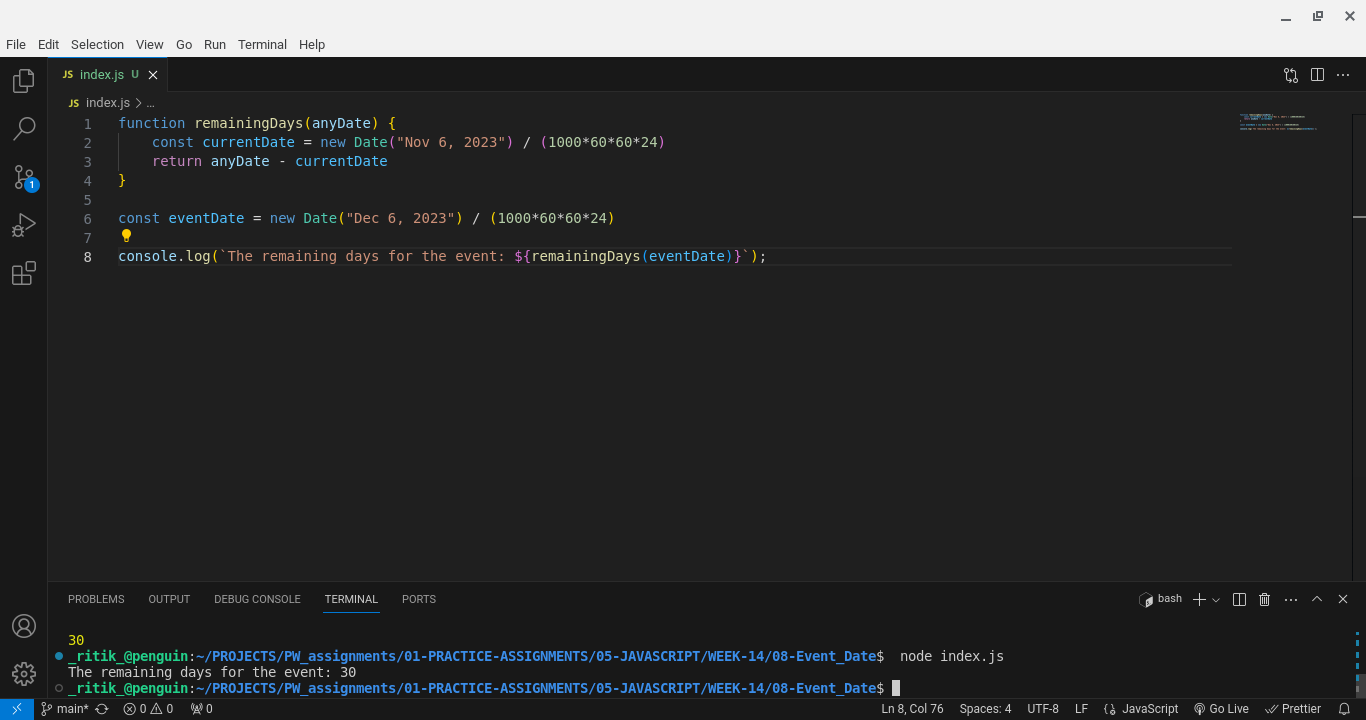
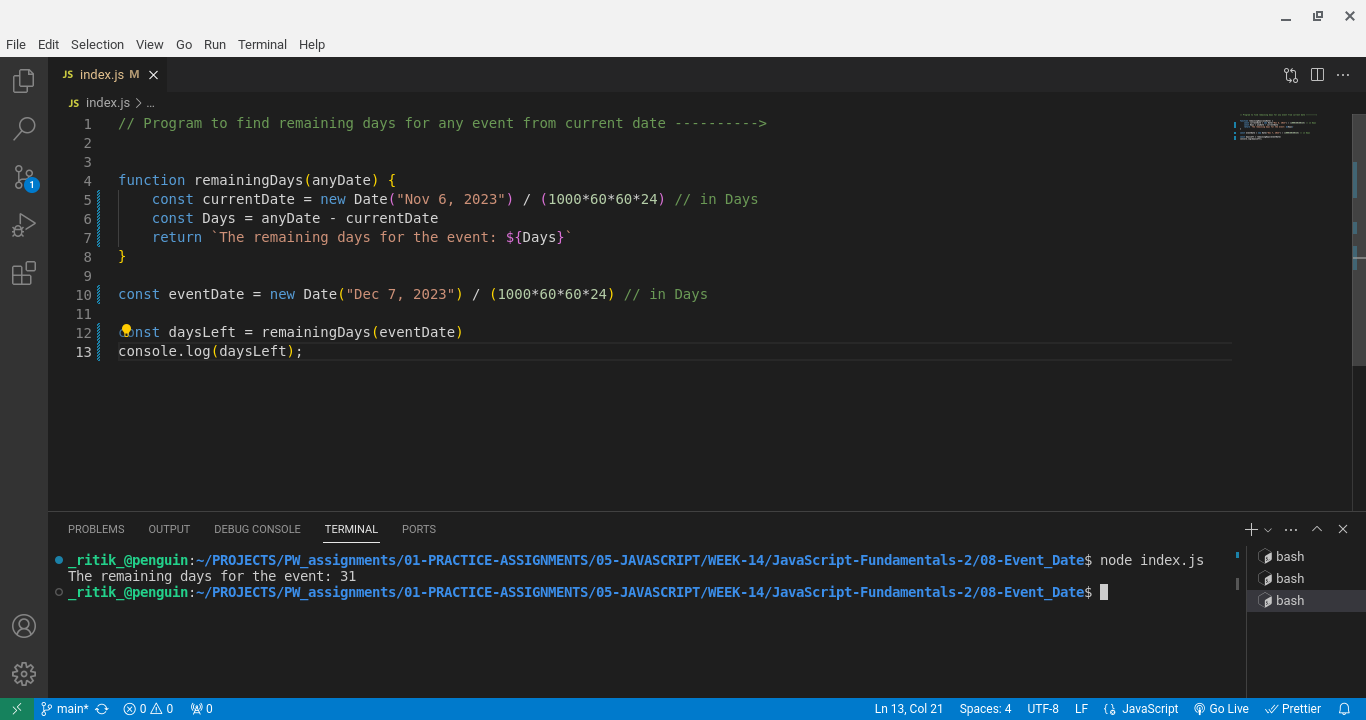
improved my code

diff --git a/01-PRACTICE-ASSIGNMENTS/05-JAVASCRIPT/WEEK-14/JavaScript-Fundamentals-2/08-Event_Date/index.js b/01-PRACTICE-ASSIGNMENTS/05-JAVASCRIPT/WEEK-14/JavaScript-Fundamentals-2/08-Event_Date/index.js
@@ -2,10 +2,12 @@
 
 
 function remainingDays(anyDate) {
-    const currentDate = new Date("Nov 6, 2023") / (1000*60*60*24)
-    return anyDate - currentDate
+    const currentDate = new Date("Nov 6, 2023") / (1000*60*60*24) // in Days
+    const Days = anyDate - currentDate
+    return `The remaining days for the event: ${Days}`
 }
 
-const eventDate = new Date("Dec 6, 2023") / (1000*60*60*24)
+const eventDate = new Date("Dec 7, 2023") / (1000*60*60*24) // in Days
 
-console.log(`The remaining days for the event: ${remainingDays(eventDate)}`);
+const daysLeft = remainingDays(eventDate)
+console.log(daysLeft);
